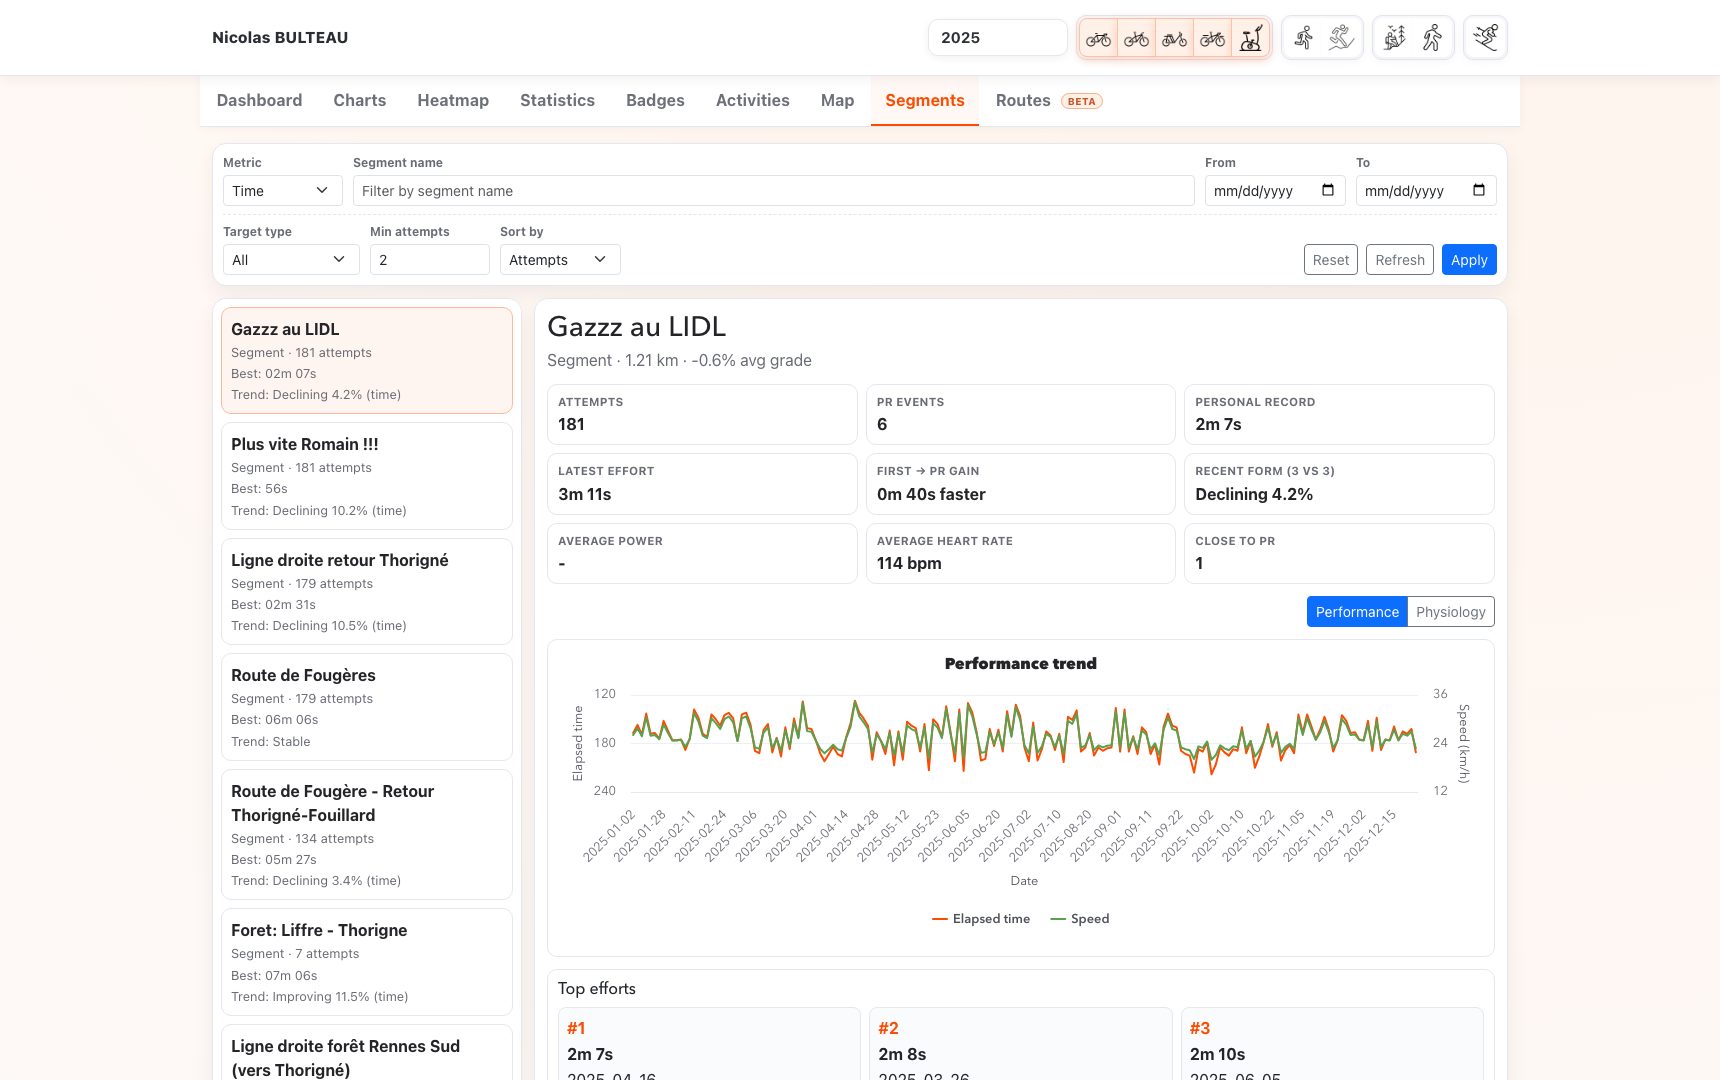
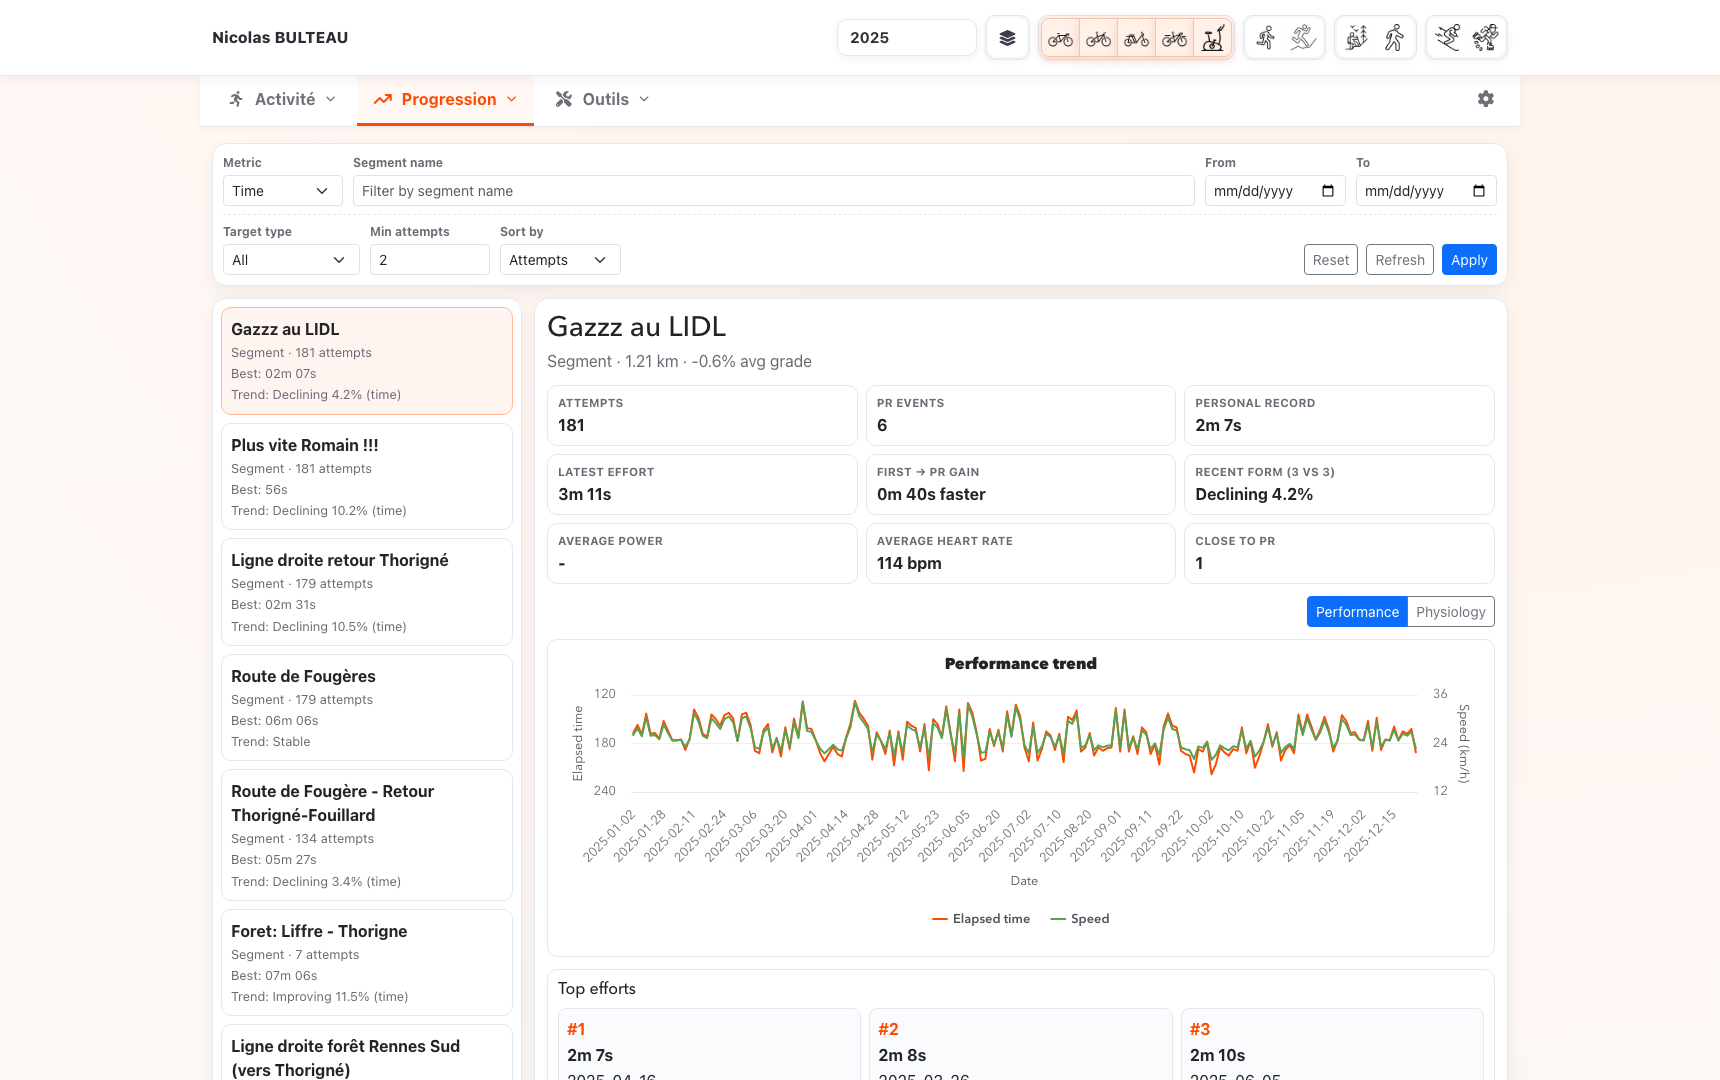
feat: update screenshot capture script and documentation to include new UI elements and screens

diff --git a/docs/reference/screenshots.md b/docs/reference/screenshots.md
@@ -1,12 +1,38 @@
 # Screenshots
 
-These screenshots provide a quick visual reference for the current UI.
+These screenshots provide a quick visual reference for the current desktop UI. They were regenerated from the current frontend with the 2025 cycling dataset selected where a year and activity filter applies.
+
+## Overview
 
 Dashboard:
 
 ![Dashboard](../assets/screenshots/screen-dashboard.png)
 
-Charts:
+Annual recap:
+
+![Annual recap](../assets/screenshots/screen-annual-recap.png)
+
+## Activities and maps
+
+Activities:
+
+![Activities](../assets/screenshots/screen-activities.png)
+
+Detailed activity:
+
+![Detailed Activity](../assets/screenshots/screen-detailed-activity.png)
+
+Map:
+
+![Map](../assets/screenshots/screen-map.png)
+
+## Analysis
+
+Statistics:
+
+![Statistics](../assets/screenshots/screen-statistics.png)
+
+Trends:
 
 ![Charts](../assets/screenshots/screen-charts.png)
 
@@ -14,34 +40,36 @@ Heatmap:
 
 ![Heatmap](../assets/screenshots/screen-heatmap.png)
 
-Statistics:
+Segments:
 
-![Statistics](../assets/screenshots/screen-statistics.png)
+![Segments](../assets/screenshots/screen-segments.png)
 
 Badges:
 
 ![Badges](../assets/screenshots/screen-badges.png)
 
-Activities:
+Equipment:
 
-![Activities](../assets/screenshots/screen-activities.png)
+![Equipment](../assets/screenshots/screen-gear.png)
 
-Map:
+## Tools and configuration
 
-![Map](../assets/screenshots/screen-map.png)
+GPS Art:
 
-Segments:
+![GPS Art](../assets/screenshots/screen-routes.png)
 
-![Segments](../assets/screenshots/screen-segments.png)
+Settings:
 
-Detailed activity:
+![Settings](../assets/screenshots/screen-settings.png)
 
-![Detailed Activity](../assets/screenshots/screen-detailed-activity.png)
+Status and diagnostics:
 
-The detailed-activity screenshot reflects the V1.1 layout captured on activity `15340076302`.
+![Status and diagnostics](../assets/screenshots/screen-diagnostics.png)
+
+The detailed-activity screenshot uses activity `15340076302` from the local reference dataset.
 
 To refresh screenshots, run:
 
 ```sh
-node scripts/capture-doc-screenshots.mjs
+node scripts/capture-doc-screenshots.mjs --year 2025 --activities all-cycling
 ```

diff --git a/scripts/README.md b/scripts/README.md
@@ -154,7 +154,8 @@ Options:
 --wait-ms <n>               Wait before each screenshot (default: 1800)
 --viewport <WxH>            Viewport size (default: 1720x1080)
 --full-page                 Capture full page screenshots
---screens <list>            Comma list: dashboard,charts,heatmap,statistics,badges,activities,map,segments,detailed
+--screens <list>            Comma list: dashboard,annual-recap,activities,detailed,map,statistics,
+                            charts,heatmap,segments,badges,gear,routes,settings,diagnostics
 --help                      Show this help
 ```
 

diff --git a/CHANGELOG.md b/CHANGELOG.md
@@ -19,6 +19,7 @@ All notable changes to My Activity Stats are documented in this file.
 - Developer checks and documentation now describe the same commands run by CI.
 - Frontend API calls now resolve typed operation identifiers through a single URL and HTTP boundary.
 - Kotlin source synchronization now depends on an injected FIT decoder port instead of a concrete adapter.
+- The documentation screenshot gallery now reflects the current UI and covers the annual recap, equipment, GPS Art, settings, and diagnostics screens.
 
 ## 1.3.0 - 2026-04-17
 
